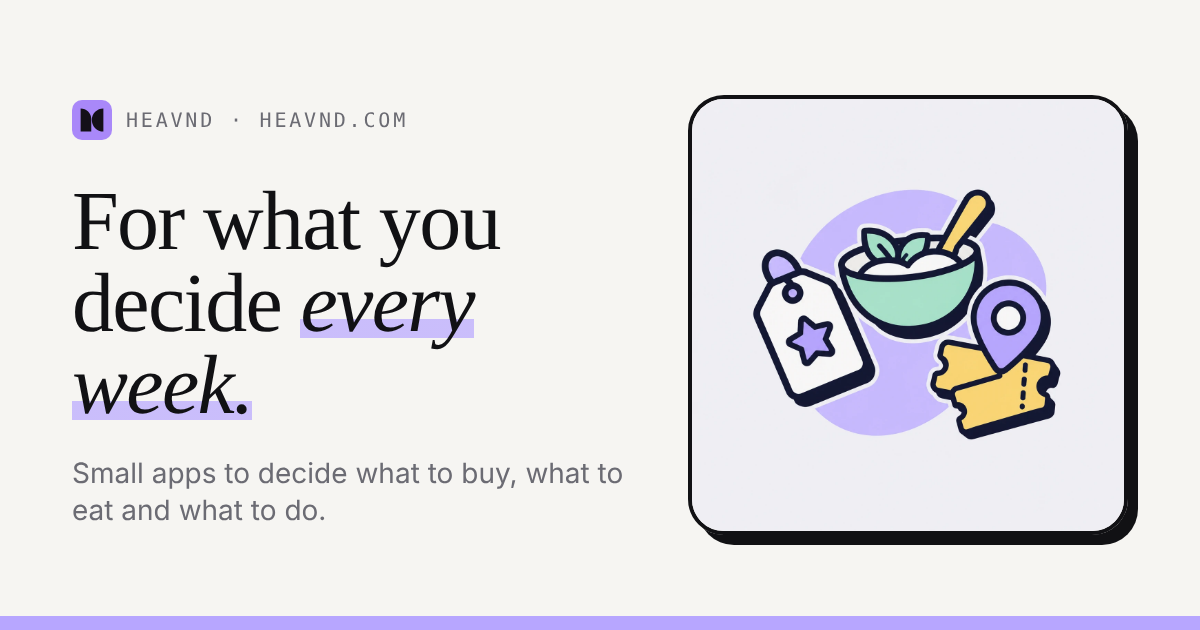
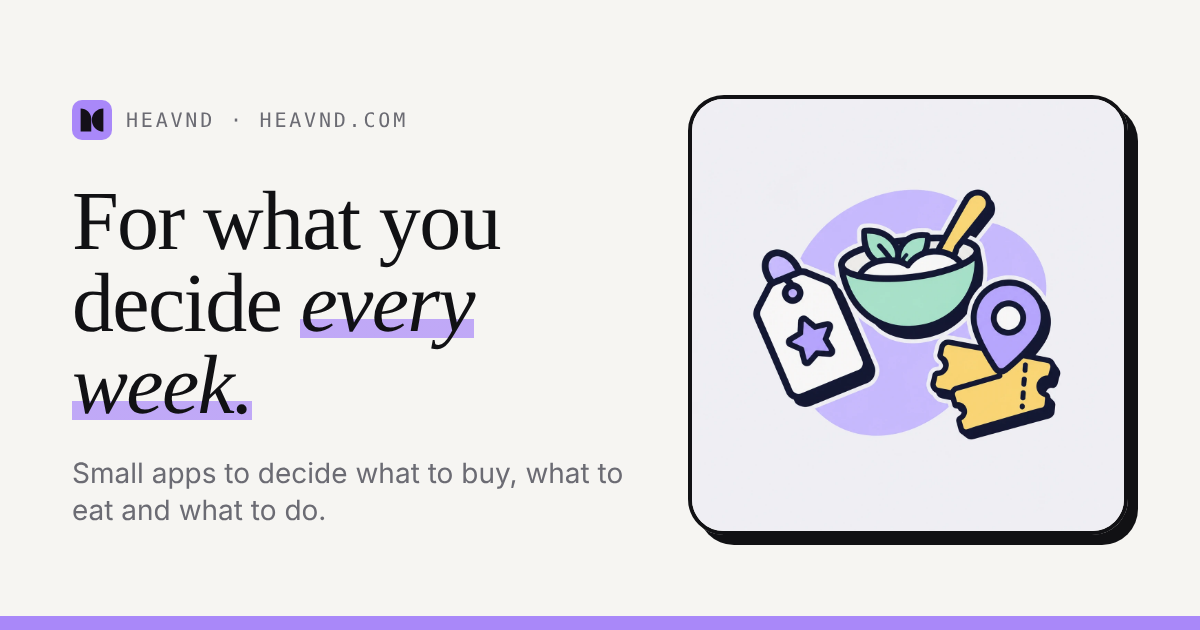
Paleta: lila del icono nuevo como acento y verde de Meald
accent pasa a #a988f9 (el del icono) y se añade accent-strong (#8055d4,
4,6:1 sobre papel) para texto e iconos; en oscuro, el lila tal cual.
Meald pasa a #c1e5bc con meald-strong para puntos y bordes, y su tinte
sube al 40 % porque el pastel al 15 % no se distingue del papel.
Imágenes OG regeneradas.

Claude-Session: https://claude.ai/code/session_01EgbpYp65RvD215YiMZGMHM

Changed region(s): [[0.0, 0.9651, 1.0, 1.0]]

diff --git a/frontend/app/assets/css/main.css b/frontend/app/assets/css/main.css
@@ -7,7 +7,7 @@
 
 /*
  * Tokens semánticos, los mismos que en las apps: nunca black/white directamente.
- * accent es el de la marca (lila "halo"); cada app conserva el suyo (choosd, meald, togethrd, simplfd), el mismo que usa
+ * accent es el de la marca (el lila del icono); accent-strong, el mismo oscurecido para texto e iconos sobre papel; cada app conserva el suyo (choosd, meald, togethrd, simplfd), el mismo que usa
  * la app para actuar, con su on-* para lo que va encima y su versión clara en oscuro, como en cada app.
  * night/night-ink son el bloque invertido del manifiesto: no cambian con el tema.
  *
@@ -22,11 +22,13 @@
   --color-paper: #f6f5f2;
   --color-surface: #ffffff;
   --color-muted: #6b6b73;
-  --color-accent: #b7a6ff;
+  --color-accent: #a988f9;
+  --color-accent-strong: #8055d4;
   --color-on-accent: #111114;
   --color-choosd: #3d4bdb;
   --color-on-choosd: #ffffff;
-  --color-meald: #9bd36b;
+  --color-meald: #c1e5bc;
+  --color-meald-strong: #3f6b26;
   --color-togethrd: #9b3a51;
   --color-on-togethrd: #ffffff;
   --color-simplfd: #0e5a57;
@@ -41,6 +43,8 @@
   --color-surface: #1a1a1e;
   --color-muted: #9a9aa3;
   --color-night: #18181c;
+  --color-accent-strong: #a988f9;
+  --color-meald-strong: #c1e5bc;
   --color-choosd: #6b78ff;
   --color-on-choosd: #0d0d18;
   --color-togethrd: #e08ea2;

diff --git a/frontend/app/pages/index.vue b/frontend/app/pages/index.vue
@@ -4,7 +4,7 @@
     <section class="relative isolate overflow-hidden">
       <div class="pointer-events-none absolute inset-0 -z-10" aria-hidden="true">
         <div class="absolute -top-48 right-[-12%] size-[44rem] rounded-full bg-accent/25 blur-3xl dark:bg-accent/10" />
-        <div class="absolute right-[30%] top-[40%] size-[20rem] rounded-full bg-meald/20 blur-3xl dark:bg-meald/5" />
+        <div class="absolute right-[30%] top-[40%] size-[20rem] rounded-full bg-meald/40 blur-3xl dark:bg-meald/10" />
         <div class="absolute -left-40 top-[55%] size-[26rem] rounded-full bg-choosd/10 blur-3xl dark:bg-choosd/5" />
       </div>
 
@@ -83,7 +83,7 @@
             v-for="(rule, i) in RULES" :key="rule"
             class="reveal grid gap-3 border-t border-night-ink/15 py-8 md:grid-cols-[minmax(0,1fr)_minmax(0,2fr)] md:gap-12"
           >
-            <span class="display text-6xl italic leading-none text-accent">{{ ROMAN[i] }}</span>
+            <span class="display text-6xl italic leading-none text-accent-strong">{{ ROMAN[i] }}</span>
             <div class="grid gap-3 lg:grid-cols-2 lg:gap-10">
               <h3 class="display text-3xl leading-tight">{{ t(`manifesto.rules.${rule}.title`) }}</h3>
               <p class="text-night-ink/70 text-pretty">{{ t(`manifesto.rules.${rule}.text`) }}</p>

diff --git a/frontend/app/components/MockMeald.vue b/frontend/app/components/MockMeald.vue
@@ -6,7 +6,7 @@
       {{ t('mock.mealdWeek') }}
     </div>
     <ul class="mt-3 space-y-1.5">
-      <li v-for="(meal, index) in meals" :key="meal.key" class="flex items-center gap-3 rounded-lg px-2 py-1.5 text-xs" :class="meal.leftover ? 'bg-meald/15' : 'bg-ink/[0.03]'">
+      <li v-for="(meal, index) in meals" :key="meal.key" class="flex items-center gap-3 rounded-lg px-2 py-1.5 text-xs" :class="meal.leftover ? 'bg-meald/40 dark:bg-meald/15' : 'bg-ink/[0.03]'">
         <span class="w-8 font-medium uppercase text-muted">{{ weekdayShort(index) }}</span>
         <span class="flex-1 truncate font-medium">{{ t(`mock.meals.${meal.key}`) }}</span>
         <FontAwesomeIcon v-if="meal.leftover" :icon="faRotateLeft" class="text-[11px] text-ink/60" />

diff --git a/frontend/app/components/MockShopping.vue b/frontend/app/components/MockShopping.vue
@@ -7,7 +7,7 @@
     </div>
     <ul class="mt-3 divide-y divide-ink/5 text-xs">
       <li v-for="item in items" :key="item.key" class="flex items-center gap-3 py-2">
-        <span class="grid size-4 shrink-0 place-items-center rounded border" :class="item.done ? 'border-meald bg-meald text-on-accent' : 'border-ink/25'">
+        <span class="grid size-4 shrink-0 place-items-center rounded border" :class="item.done ? 'border-meald-strong bg-meald text-on-accent' : 'border-ink/25'">
           <FontAwesomeIcon v-if="item.done" :icon="faCheck" class="text-[9px]" />
         </span>
         <span class="flex-1 truncate font-medium" :class="item.done ? 'text-muted line-through' : ''">{{ t(`mock.shoppingItems.${item.key}`) }}</span>

diff --git a/frontend/app/components/ProductPage.vue b/frontend/app/components/ProductPage.vue
@@ -75,7 +75,7 @@
               <p class="display mt-2 text-5xl">0 €</p>
               <ul class="mt-6">
                 <li v-for="k in app.page.freemium.free" :key="k" class="flex gap-3 border-t border-night-ink/10 py-3 text-sm">
-                  <FontAwesomeIcon :icon="faCheck" class="mt-1 text-accent" />{{ t(`product.${app.id}.freemium.free.${k}`) }}
+                  <FontAwesomeIcon :icon="faCheck" class="mt-1 text-accent-strong" />{{ t(`product.${app.id}.freemium.free.${k}`) }}
                 </li>
               </ul>
               <a :href="withRef(app.page.signupUrl, app.id)" class="btn mt-6 bg-night-ink px-5 py-3 text-base text-night hover:opacity-90">{{ t('product.start') }}</a>

diff --git a/frontend/app/utils/apps.ts b/frontend/app/utils/apps.ts
@@ -62,7 +62,7 @@ export const APPS: HeavndApp[] = [
     id: 'meald',
     name: 'Meald',
     url: 'https://meald.heavnd.com',
-    accent: { bg: 'bg-meald', text: 'text-meald', tint: 'bg-meald/15', border: 'border-meald' },
+    accent: { bg: 'bg-meald-strong', text: 'text-meald-strong', tint: 'bg-meald/40 dark:bg-meald/15', border: 'border-meald-strong' },
     glyph: 'M5.7 6.6A10 8.7 0 0 1 15.7 15.3V25.4H5.7ZM26.3 6.6A10 8.7 0 0 0 16.3 15.3V25.4H26.3Z',
     icon: { bg: '#c1e5bc', fill: 'text-[#141019]' },
     steps: ['recipes', 'products', 'week', 'shopping'],
